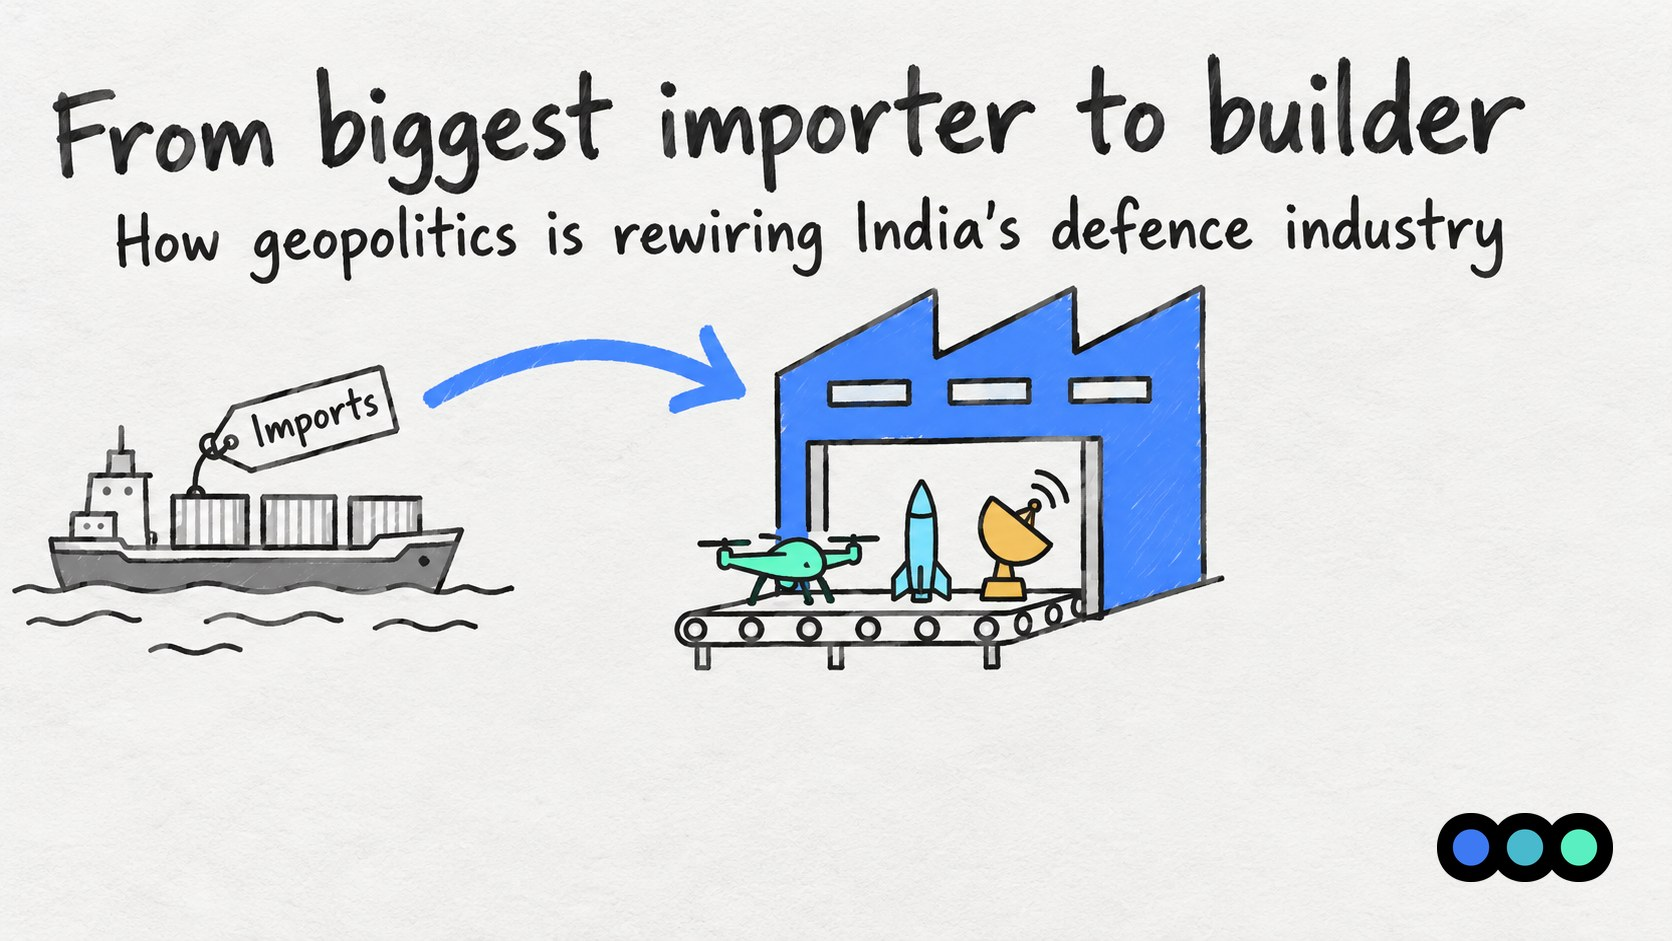
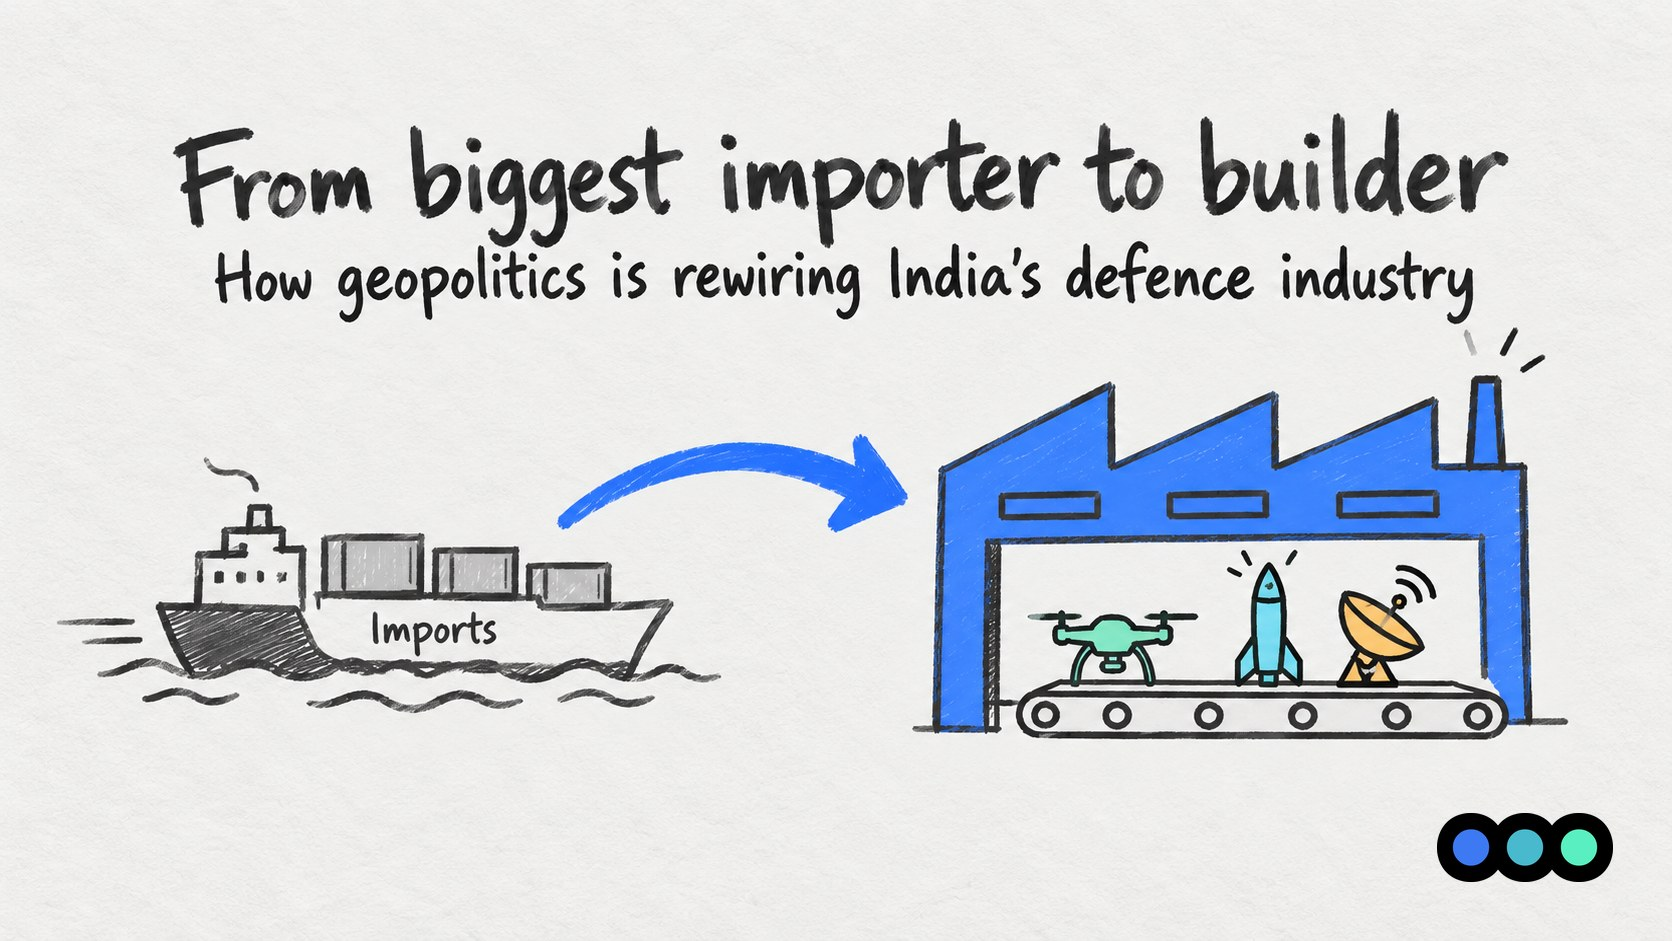
Karan's post: use Codex's updated cover and scene 1
Cover is re-centred with Imports on the hull; scene 1 labels the rest of
each pie Other countries and is now 3:2 (1536x1024), so its width/height
and alt text are updated to match.

Changed region(s): [[0.0, 0.0616, 0.933, 0.8013]]

diff --git a/blog-india-defence-importer-to-builder.html b/blog-india-defence-importer-to-builder.html
@@ -97,7 +97,7 @@ height="0" width="0" style="display:none;visibility:hidden"></iframe></noscript>
       <p>India accounted for 8.2% of global arms imports in 2021-25, second only to Ukraine, down from 9.3% in 2016-20. SIPRI links the decline partly to India's growing ability to build weapons at home. Russia's share of Indian imports has dropped from 70% in 2011-15 to 40% in 2021-25, with France (29%) and Israel (15%) making up most of the rest.</p>
 
       <figure class="post-figure">
-        <img src="Assets/blog/india-defence-importer-to-builder-scene-1-where-imports-come-from.jpg" alt="Two pie charts of India's arms imports. In 2011-15 Russia supplies 70 percent. In 2021-25 Russia supplies 40 percent, France 29 percent and Israel 15 percent." width="1672" height="941" loading="lazy">
+        <img src="Assets/blog/india-defence-importer-to-builder-scene-1-where-imports-come-from.jpg" alt="Two pie charts of India's arms imports. In 2011-15 Russia supplies 70 percent and other countries make up the rest. In 2021-25 Russia supplies 40 percent, France 29 percent, Israel 15 percent and other countries make up the rest." width="1536" height="1024" loading="lazy">
       </figure>
 
       <h2>Trigger 1: The Russia-Ukraine war exposed supply risk</h2>
